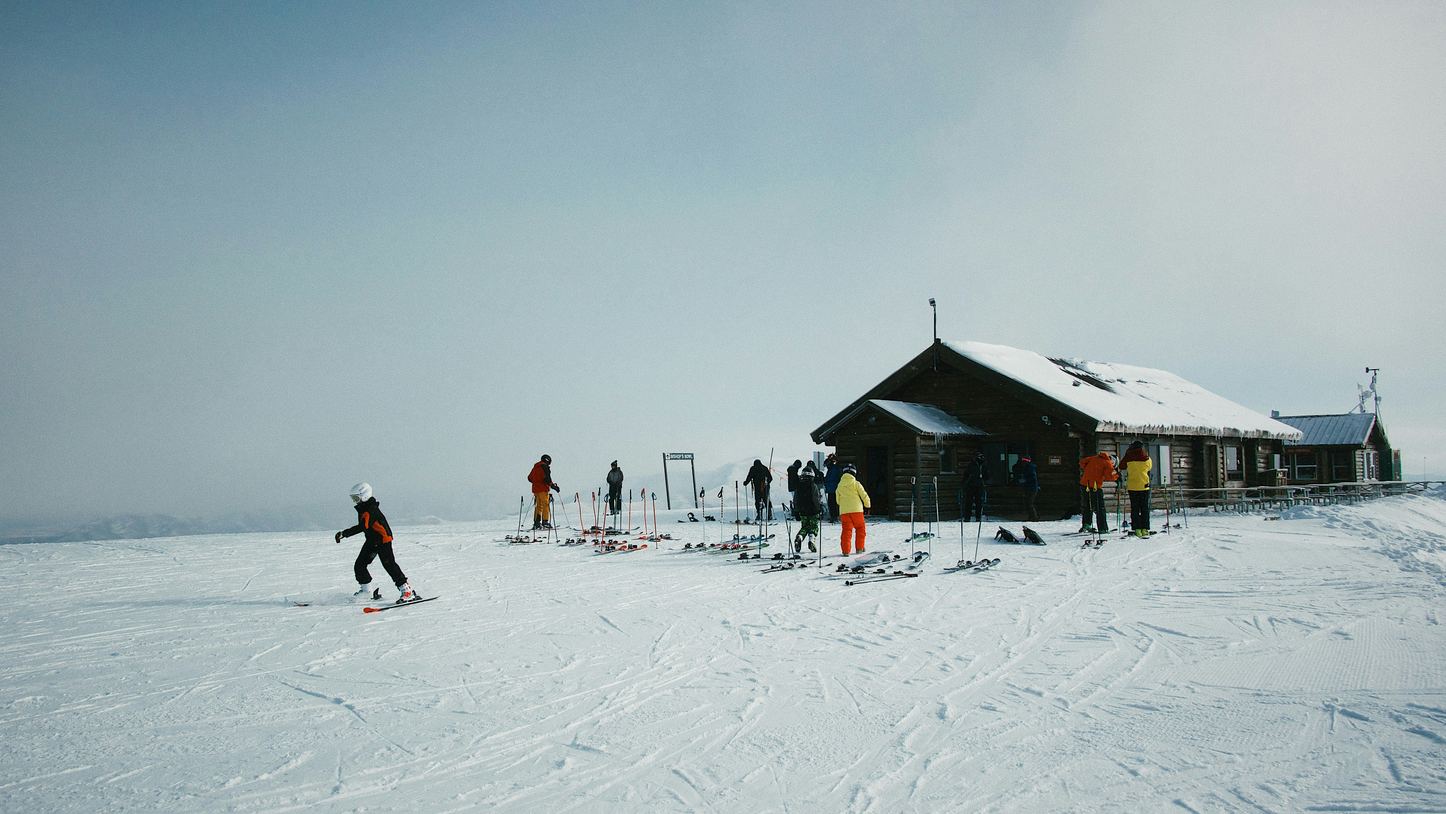
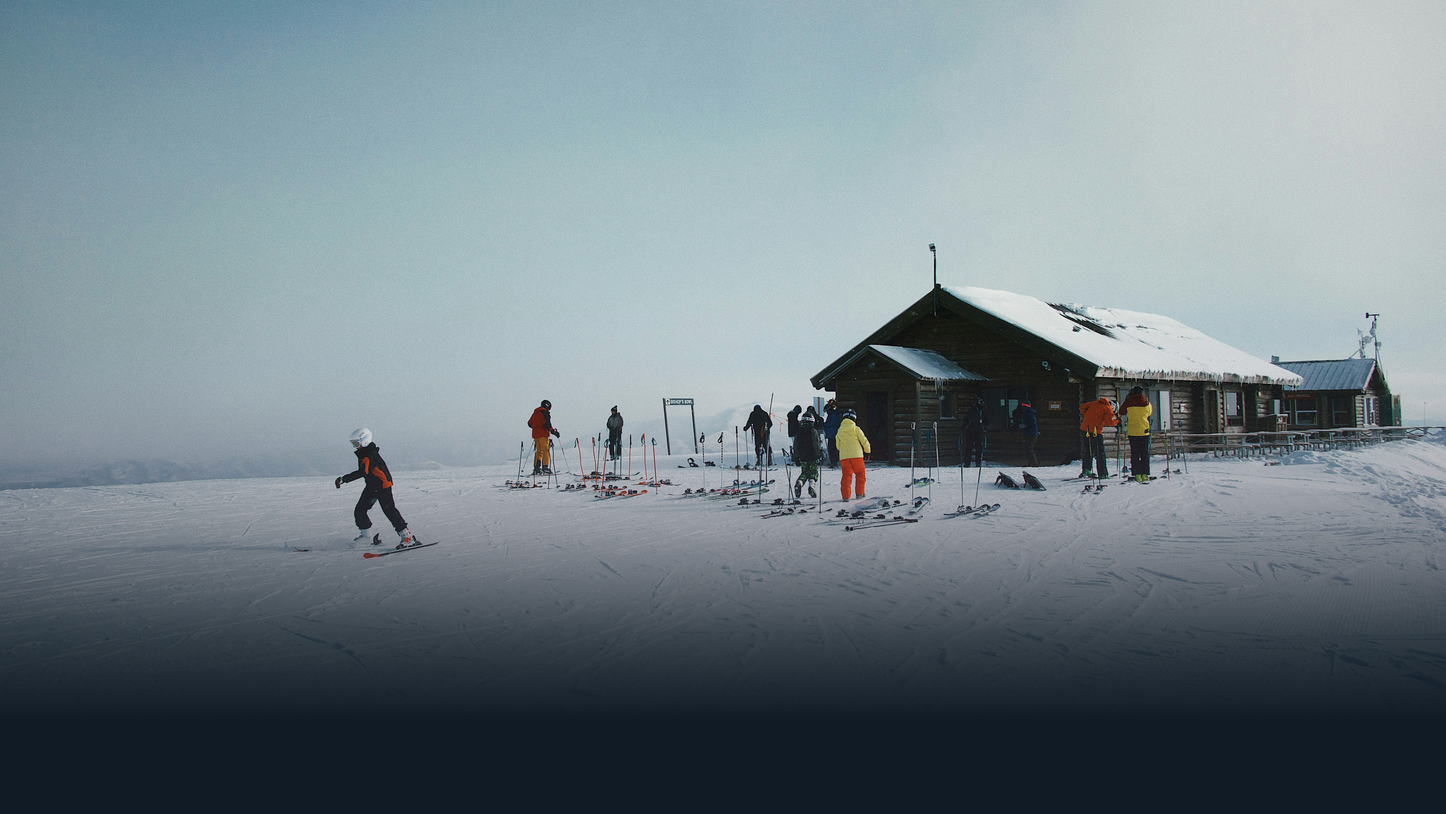
våffelstuga + annat

diff --git a/vaffelstuga.html b/vaffelstuga.html
@@ -40,25 +40,35 @@
         </div>
     </nav>
 
-    <div class="bg-image landing-image min-vh-100">
+    <div class="bg-image vaffel-image min-vh-100">
         <div class="container d-flex flex-column min-vh-100 justify-content-center no-gutters">
-            <h1 class="text-light">Välkommen till vårt<br> vinterlandskap Snötopia</h1>
-            <a href="bokningssida.html">
-                <button class="btn btn-lg btn-outline-light p-3 col-4 col-md-3 col-lg-2 mt-5 rounded-pill">Boka
-                    Nu!</button>
-            </a>
+            <h1 class="text-light text-center">För en värmande stund</h1>
         </div>
     </div>
     <div class="bg-image landing-image-2">
-        <div class="container ">
+        <div class="container">
+            <h2 class="text-light text-center mb-4">Välkommen till vår toppstuga!</h2>
+            <div class="container d-flex flex-column flex-md-row min-vh-100 justify-content-start  no-gutters">
+                <div class="col-md-6">
+                    <p> BrantaBerget Express, vår bekväma sittlift, tar dig genom det gnistrande vinterlandskapet upp till Toppstugan, kronjuvelen
+                        på BrantaBerget. Här, högt ovan molnen, öppnar sig en panoramavy över området som tar andan ur dig.
+                        Njut av livemusik som följer med vinden, skapad av lokala talanger som ger ton åt din skidresa. Och när
+                        hungern knackar på, låt dig förföras av vår gastronomiska upplevelse.</p>
+                </div>
+                <div class="col-md-6">
+                    <p>Vårt kök serverar läckra rätter som
+                        förgyller ditt besök, allt inramat av den hisnande utsikten från fjälltoppen.
+                        Toppstugan är mer än en paus – det är en upplevelse. Ett tillfälle att njuta av god mat, skratt och stämningen
+                        som bara Snötopia kan erbjuda. Sätt dig ner, ta in atmosfären och skapa minnen som sträcker sig längre än
+                        horisonten.</p>
+                </div>
+                </div>
+            </div>
+            <div class="container d-flex justify-content-start col-12 col-lg-6">
             <div
-                class="d-flex flex-column flex-lg-row justify-content-center align-items-center align-items-lg-stretch">
-                <img src="img/blatt_monster.svg" id="darkmode_svg-pattern-blue" class="mx-0" style="position: absolute; width: 100vw" alt="">
-                <img src="img/rosa_monster.svg" id="darkmode_svg-pattern-pink" class="mx-0" style="position: absolute; width: 100vw" alt="">
-                <div
-                    class="card card-body col-12 col-lg-6 bg-dark border border-light border-opacity-50 me-0 me-lg-3 my-3 rounded-5">
-                    <img class="rounded-4" src="img\simon-mumenthaler-LRnfFgKdVSI-unsplash.jpg" alt="">
-                    <h3 class="mt-3">Topp-& våffelstugan</h3>
+                    class="card card-body bg-dark border border-light border-opacity-50 me-0 me-lg-3 my-3 rounded-5">
+                    <img class="rounded-4" src="img\vafflor.jpg" alt="">
+                    <h3 class="mt-3">Frasiga våfflor</h3>
                     <h4>En smakupplevelse mitt i Snötopia!</h4>
                     <p class="mt-3 ml-3">
                         Ta en paus från våra snabba backar och unna dig en nygräddad våffla. Våffelstugan är inte bara
@@ -68,28 +78,14 @@
                         och skapa minnen som värmer även de kallaste dagar. Sätt dig ner, koppla av och låt våffelstugan
                         bli
                         din egen lilla oas i vinterparadiset.</p>
-                    <a href="vaffelstuga.html">
-                        <button class="btn btn-outline-light rounded-4 px-5 py-2 my-3">
-                            mer info
-                        </button>
-                    </a>
-                </div>
-
-                <div
-                    class="card card-body col-12 col-lg-6 bg-dark border border-light border-opacity-50 ms-0 ms-lg-3 my-3 rounded-5">
-                    <img class="rounded-4" src="img\eirik-uhlen-U5YfxhSze8k-unsplash.jpg" alt="">
-                    <h3 class="mt-3">Event-& tävlingar</h3>
-                    <h4 class="">Aurora Alley Open</h4>
-                    <p class="mt-3 ml-3">Brantabergets egna mästerskap, där får besökarna bland annat
-                        tävla i bästa utklädnad, synkroniserad snödans och skidåkningsstafett.</p>
-                        <a href="events.html">
-                            <button class="btn btn-outline-light rounded-4 px-5 py-2 my-3">
-                                mer info
-                            </button>
-                        </a>
-                </div>
-
+                </div> 
             </div>
+            <div
+                class="d-flex flex-column flex-lg-row justify-content-center align-items-center align-items-lg-stretch">
+                <img src="img/blatt_monster.svg" id="darkmode_svg-pattern-blue" class="mx-0" style="position: absolute; width: 100vw" alt="">
+                <img src="img/rosa_monster.svg" id="darkmode_svg-pattern-pink" class="mx-0" style="position: absolute; width: 100vw" alt="">
+            </div>
+            
             <div class="d-flex justify-content-center align-items-center">
                 <div class="card card-body col-12 bg-dark border border-light border-opacity-50 ms-0 mt-3 rounded-5">
                     <img class="rounded-4" src="pistkarta" alt="">

diff --git a/css/style.css b/css/style.css
@@ -15,6 +15,14 @@ p {
   background-size: cover;
   object-fit: scale-down; }
 
+.vaffel-image {
+  background-image: url("/img/cottage.jpg");
+  height: 100vh;
+  background-repeat: no-repeat;
+  background-size: cover;
+  object-fit: scale-down;
+  background-position: right; }
+
 .landing-image-2 {
   background-image: linear-gradient(#111b26, #986aab);
   height: 200vh;
@@ -45,6 +53,9 @@ h1, .h1 {
   color: #fcfae8;
   font-size: 3rem !important; }
 
+h2, .h2 {
+  font-family: new-spirit; }
+
 h3, .h3 {
   font-family: new-spirit;
   font-weight: 500;
@@ -55,6 +66,9 @@ h4, .h4 {
   font-family: new-spirit;
   font-weight: 300;
   color: #fcfae8 !important; }
+
+.nav-link a:current {
+  color: yellow; }
 
 @media (max-width: 1250px) {
   .landing-image {

diff --git a/sass/main.scss b/sass/main.scss
@@ -35,6 +35,15 @@ p {
     object-fit: scale-down;
 }
 
+.vaffel-image {
+    background-image: url("/img/cottage.jpg");
+    height: 100vh;
+    background-repeat: no-repeat;
+    background-size: cover;
+    object-fit: scale-down;
+    background-position: right;
+}
+
 .landing-image-2 {
     background-image: $darkmode-gradient;
     height: 200vh;
@@ -73,6 +82,10 @@ h1 {
     font-size: 3rem !important;
 }
 
+h2 {
+    font-family: new-spirit;
+}
+
 h3 {
     font-family: new-spirit;
     font-weight: 500;
@@ -84,6 +97,10 @@ h4 {
     font-family: new-spirit;
     font-weight: 300;
     color: $light !important;
+}
+
+.nav-link a:current {
+    color: yellow;
 }
 
 @media (max-width: 1250px) {

diff --git a/bokningssida.html b/bokningssida.html
@@ -27,13 +27,14 @@
         <h2>Välj paket</h2>
       
         <fieldset class="packageRadio">
-          <label for="packageBarn">Barnpaketet</label>
+          <label class="card card-body" for="packageBarn">Barnpaketet
           <input
             type="radio"
             id="packageBarn"
             name="packageType"
             value="Barnpaketet"
           />
+        </label>
           <label for="packageUngdom">Ungdomspaketet</label>
           <input
             type="radio"

diff --git a/pistkarta.html b/pistkarta.html
@@ -1,0 +1,11 @@
+<!DOCTYPE html>
+<html lang="en">
+<head>
+    <meta charset="UTF-8">
+    <meta name="viewport" content="width=device-width, initial-scale=1.0">
+    <title>Document</title>
+</head>
+<body>
+    
+</body>
+</html>
